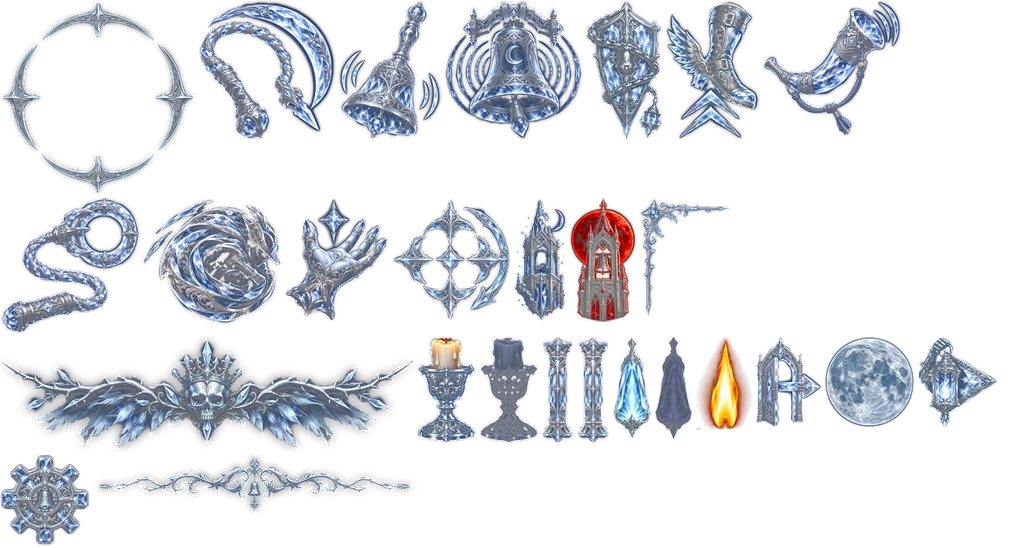
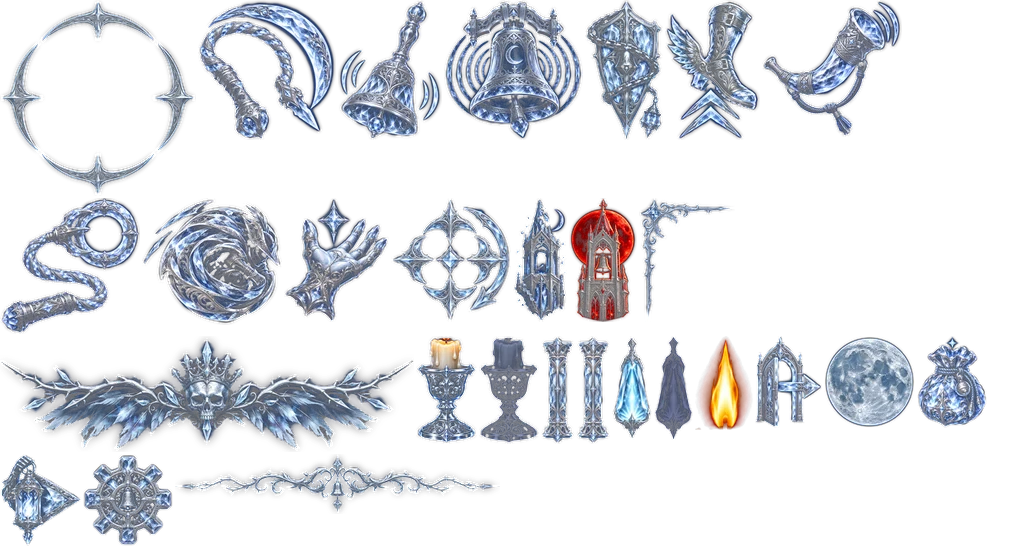
작업 중간 자동 저장 (22:42 UTC)
Claude-Session: https://claude.ai/code/session_01UBgmRFZQ92zRFpr8aw657S

Changed region(s): [[0.0, 0.8066, 0.5, 0.9927], [0.875, 0.6204, 0.9688, 0.7755]]

diff --git a/src/v2/world/eshville.js b/src/v2/world/eshville.js
@@ -15,24 +15,24 @@ export function eshville(era) {
   const fire = (chunk, id, x, y, z, w, h, lr = 420) => { add(chunk, { t: 'deco', mesh: 'fire', x, y, z, w, h, n: Math.max(4, Math.round(w / 18)), light: FIRE(lr, 1.9) }); anchors.push({ id, kind: 'fire', x, y, z, size: +(h / 70).toFixed(2), light: true }); };
 
   // ───────────── ground ─────────────
-  add('out', { t: 'floor', x: -60, z: 0, w: 1560, d: 300, mat: 'dirt', kit: { mat: 'cobworn', rag: 44, strips: [{ z0: 0, z1: 56, mat: 'soil' }, { z0: 232, z1: 300, mat: 'soil' }] } });
-  add('street', { t: 'floor', x: 1500, z: 0, w: 1800, d: 300, mat: 'cobble', kit: { rag: 30, strips: [{ z0: 104, z1: 196, mat: 'cobworn' }, { z0: 0, z1: 16, mat: 'flags' }] } },
+  add('out', { t: 'floor', x: -60, z: 0, w: 1560, d: 300, mat: 'dirt', kit: { mat: 'cobworn', cell: 44, rag: 44, strips: [{ z0: 0, z1: 56, mat: 'soil' }, { z0: 232, z1: 300, mat: 'soil' }] } });
+  add('street', { t: 'floor', x: 1500, z: 0, w: 1800, d: 300, mat: 'cobble', kit: { cell: 44, rag: 30, strips: [{ z0: 104, z1: 196, mat: 'cobworn' }, { z0: 0, z1: 16, mat: 'flags' }] } },
     { t: 'pave', x: 1500, z: 280, w: 1800, d: 20, h: 7, kerb: 'F' });
-  add('east', { t: 'floor', x: 3300, z: 0, w: 1400, d: 900, mat: 'cobble', kit: { mat: 'cobble2', rag: 38, strips: [{ x0: 470, x1: 730, z0: 320, z1: 580, mat: 'flags' }, { x0: 520, x1: 680, z0: 580, z1: 900, mat: 'flags' }, { x0: 0, x1: 470, z0: 104, z1: 196, mat: 'cobworn' }, { x0: 1180, x1: 1400, z0: 560, z1: 900, mat: 'cobworn' }] } });
+  add('east', { t: 'floor', x: 3300, z: 0, w: 1400, d: 900, mat: 'cobble', kit: { mat: 'cobble2', cell: 50, rag: 38, strips: [{ x0: 470, x1: 730, z0: 320, z1: 580, mat: 'flags' }, { x0: 520, x1: 680, z0: 580, z1: 900, mat: 'flags' }, { x0: 0, x1: 470, z0: 104, z1: 196, mat: 'cobworn' }, { x0: 1180, x1: 1400, z0: 560, z1: 900, mat: 'cobworn' }] } });
   add('east', { t: 'floor', x: 3660, z: 900, w: 480, d: 200, mat: 'stone', kit: { mat: 'flags', rag: 26, strips: [{ x0: 0, x1: 110, mat: 'cobble2' }, { x0: 370, x1: 480, mat: 'cobble2' }] } },
     { t: 'stairs', x: 3660, z: 1100, w: 480, d: 150, h: 84, dir: 'z+', steps: 7, mat: 'stone', kit: { cheeks: 'LR' } },
     { t: 'floor', x: 3460, z: 1250, w: 880, d: 400, y: 84, thick: 330, mat: 'stone', kit: { mat: 'flags', rag: 30, strips: [{ z0: 0, z1: 60, mat: 'cobble2' }, { x0: 0, x1: 150, z0: 60, z1: 400, mat: 'cobble2' }, { x0: 730, x1: 880, z0: 60, z1: 400, mat: 'cobble2' }] } },
-    { t: 'floor', x: 3300, z: 990, w: 316, d: 260, mat: 'dirt', walk: false, kit: { mat: 'soil', rag: 30, strips: [{ x0: 120, x1: 316, z0: 60, z1: 200, mat: 'moss' }] } },
-    { t: 'floor', x: 4184, z: 990, w: 256, d: 260, mat: 'dirt', walk: false, kit: { mat: 'soil', rag: 30, strips: [{ x0: 0, x1: 150, z0: 80, z1: 220, mat: 'moss' }] } });
+    { t: 'floor', x: 3300, z: 990, w: 316, d: 260, mat: 'dirt', walk: false, kit: { mat: 'soil', cell: 60 } },
+    { t: 'floor', x: 4184, z: 990, w: 256, d: 260, mat: 'dirt', walk: false, kit: { mat: 'soil', cell: 60 } });
   add('east', { t: 'floor', x: 4480, z: 900, w: 220, d: 600, mat: 'dirt', kit: { mat: 'cobworn', rag: 34, strips: [{ x0: 0, x1: 50, z0: 120, mat: 'soil' }, { x0: 170, x1: 220, z0: 120, mat: 'soil' }] } });
   add('out', { t: 'blocker', x: -60, z: -60, w: 4900, d: 60, y: -400, h: 1200 }, { t: 'blocker', x: 4480, z: 1500, w: 220, d: 40, y: -400, h: 1200 });
 
   // ───────────── boundary walls ─────────────
-  add('out', { t: 'wall', x: -160, z: -60, w: 100, d: 450, h: 280, mat: 'facade', kit: { style: 'rubble', lower: 'fieldstone', faces: 'R', gates: [{ side: 'R', u: 210, w: 130, h: 200 }], buttress: [{ side: 'R', u: 90, h: 220, d: 18 }, { side: 'R', u: 330, h: 220, d: 18 }], battlement: true } });
+  add('out', { t: 'wall', x: -160, z: -60, w: 100, d: 450, h: 280, mat: 'facade', kit: { style: 'rubble', lower: 'fieldstone', cell: 64, faces: 'R', gates: [{ side: 'R', u: 210, w: 130, h: 200 }], buttress: [{ side: 'R', u: 90, h: 220, d: 18 }, { side: 'R', u: 330, h: 220, d: 18 }], battlement: true } });
   add('east', { t: 'wall', x: 3200, z: 390, w: 100, d: 510, h: 300, mat: 'facade', kit: { style: 'stone', faces: 'R', quoins: true, courses: [156], windows: [130, 300, 440].flatMap((u, i) => [{ side: 'R', u, y: 70, w: 42, h: 66, lit: [0.7, 0, 0.5][i] * (now ? 0.6 : 1), shutters: i === 1 }, { side: 'R', u, y: 184, w: 40, h: 66, arch: 'round', lit: [0, 0.6, 0][i] }]), hang: [{ type: 'banner', side: 'R', u: 215, y: 66, len: 96, w: 36, c: past ? BLACK : BLUE }] } },
-    { t: 'roof', x: 3200, z: 390, w: 100, d: 510, y: 300, h: 50, kit: { gable: 'ashlar' } },
-    { t: 'wall', x: 4700, z: -60, w: 100, d: 1560, h: 330, mat: 'facade', kit: { style: 'rubble', lower: 'fieldstone', faces: 'L', battlement: true, buttress: [200, 520, 840, 1160, 1440].map((u) => ({ side: 'L', u, h: 250, d: 22, w: 40 })), hang: [{ type: 'banner', side: 'L', u: 1050, y: 110, len: 120, w: 44, c: past ? BLACK : RED }, { type: 'sconce', side: 'L', u: 700, y: 150 }] } });
-  add('east', { t: 'wall', x: 3200, z: 900, w: 100, d: 800, h: 260, mat: 'facade', kit: { style: 'rubble', lower: 'fieldstone', faces: 'R', battlement: true, buttress: [150, 420, 690].map((u) => ({ side: 'R', u, h: 200, d: 20 })) } },
+    { t: 'roof', x: 3200, z: 390, w: 100, d: 510, y: 300, h: 50, kit: { gable: 'ashlar', chimney: 'fieldstone' } },
+    { t: 'wall', x: 4700, z: -60, w: 100, d: 1560, h: 330, mat: 'facade', kit: { style: 'rubble', lower: 'fieldstone', cell: 70, faces: 'L', battlement: true, buttress: [200, 520, 840, 1160, 1440].map((u) => ({ side: 'L', u, h: 250, d: 22, w: 40 })), hang: [{ type: 'banner', side: 'L', u: 1050, y: 110, len: 120, w: 44, c: past ? BLACK : RED }, { type: 'sconce', side: 'L', u: 700, y: 150 }] } });
+  add('east', { t: 'wall', x: 3200, z: 900, w: 100, d: 800, h: 260, mat: 'facade', kit: { style: 'rubble', lower: 'fieldstone', cell: 70, faces: 'R', battlement: true, buttress: [150, 420, 690].map((u) => ({ side: 'R', u, h: 200, d: 20 })) } },
     { t: 'wall', x: 3616, z: 990, w: 44, d: 260, h: 56, collideH: 800, mat: 'stone', kit: { style: 'low', faces: 'FR', coping: true, rail: 'R', piers: 130 } },
     { t: 'wall', x: 4140, z: 990, w: 44, d: 260, h: 56, collideH: 800, mat: 'stone', kit: { style: 'low', faces: 'FL', coping: true, rail: 'L', piers: 130 } },
     { t: 'wall', x: 3460, z: 1250, w: 200, d: 30, y: 84, h: 44, collideH: 800, mat: 'stone', kit: { style: 'low', faces: 'F', coping: true, rail: 'F', piers: 100 } },
@@ -56,12 +56,12 @@ export function eshville(era) {
     house({ x: 3300, z: 900, w: 360, h: 300, style: 'timber', seed: 31, lit: now ? 0.3 : 0.7, faces: 'FR', sconce: true, kit: { jettySides: 'F' } }),
     house({ x: 4140, z: 900, w: 340, h: 320, style: 'stone', seed: 32, lit: now ? 0.25 : 0.6, faces: 'FLR', banner: past ? BLACK : RED }));
   // ───────────── church + bell tower ─────────────
-  const NAVE = (x, seed) => ({ t: 'wall', x, z: 1650, w: 300, d: 120, y: 84, h: 400, mat: 'facade', kit: { style: 'stone', faces: 'F', plinth: 34, courses: [330], quoins: true, tint: [0.98, 0.98, 1.04],
+  const NAVE = (x, seed) => ({ t: 'wall', x, z: 1650, w: 300, d: 120, y: 84, h: 400, mat: 'facade', kit: { style: 'stone', cell: 56, faces: 'F', plinth: 34, courses: [330], quoins: true, tint: [0.98, 0.98, 1.04],
     windows: [{ u: 90, y: 100, w: 54, h: 200, arch: 'point', lit: seed ? 0.8 : 0.6, rows: 4 }, { u: 210, y: 100, w: 54, h: 200, arch: 'point', lit: seed ? 0.55 : 0.85, rows: 4 }],
     buttress: [{ u: 16, h: 300, d: 24, w: 34 }, { u: 150, h: 300, d: 24, w: 34 }, { u: 284, h: 300, d: 24, w: 34 }], hang: past ? [{ type: 'banner', u: 150, y: 150, len: 120, w: 40, c: BLACK }] : [] } });
   add('east', NAVE(3460, 0), NAVE(4040, 1),
     { t: 'roof', x: 3460, z: 1650, w: 300, d: 120, y: 484, h: 96, kit: { gable: 'ashlar' } }, { t: 'roof', x: 4040, z: 1650, w: 300, d: 120, y: 484, h: 96, kit: { gable: 'ashlar' } },
-    { t: 'wall', x: 3760, z: 1622, w: 280, d: 148, y: 84, h: 700, mat: 'facade', kit: { style: 'stone', faces: 'FLR', plinth: 40, courses: [250, 470, 640], quoins: true, battlement: true, tint: [1.0, 1.0, 1.05],
+    { t: 'wall', x: 3760, z: 1622, w: 280, d: 148, y: 84, h: 700, mat: 'facade', kit: { style: 'stone', cell: 60, faces: 'FLR', plinth: 40, courses: [250, 470, 640], quoins: true, battlement: true, tint: [1.0, 1.0, 1.05],
       doors: [{ u: 140, w: 96, h: 160, arch: 'point' }],
       windows: [{ u: 140, y: 290, w: 64, h: 130, arch: 'point', lit: 0.75, rows: 3, cols: 2 }, { u: 86, y: 510, w: 46, h: 100, arch: 'point', rows: 1, cols: 1 }, { u: 194, y: 510, w: 46, h: 100, arch: 'point', rows: 1, cols: 1 }],
       buttress: [{ u: 18, h: 420, d: 26, w: 36 }, { u: 262, h: 420, d: 26, w: 36 }], hang: [{ type: 'sconce', u: 62, y: 150 }, { type: 'sconce', u: 218, y: 150 }] } },
@@ -88,7 +88,7 @@ export function eshville(era) {
     { t: 'deco', mesh: 'deadtree', x: 3420, z: 1130, h: 280 }, { t: 'deco', mesh: 'deadtree', x: 4330, z: 1160, h: 250, flip: true },
     ...[[3380, 1060, 'point', 92], [3470, 1090, 'round', 80], [3560, 1050, 'cross', 96], [3500, 1190, 'obelisk', 120], [3380, 1200, 'broken', 80], [4240, 1070, 'round', 84], [4390, 1060, 'point', 90], [4250, 1200, 'ledger', 80], [4400, 1190, 'cross', 100]].map(([x, z, kind, h]) => ({ t: 'deco', mesh: 'grave', kind, x, z, h })),
     { t: 'deco', mesh: 'cross', x: 4320, z: 1090, h: 170 },
-    { t: 'deco', mesh: 'cemgate', x: 4590, z: 1010, w: 164, h: 200, open: 0.2 }, { t: 'blocker', x: 4472, z: 992, w: 38, d: 36 }, { t: 'blocker', x: 4670, z: 992, w: 38, d: 36 },
+    { t: 'deco', mesh: 'cemgate', x: 4590, z: 1010, w: 164, h: 200, open: 1.25 }, { t: 'blocker', x: 4472, z: 992, w: 38, d: 36 }, { t: 'blocker', x: 4670, z: 992, w: 38, d: 36 },
     { t: 'prop', mesh: 'lanternpost', x: 4510, z: 1180, h: 180, solid: 9, solidZ: 9, light: { r: 280, i: 1.3, y: 120, c: [0.75, 0.85, 1] }, c: [0.75, 0.85, 1], flip: true });
 
   // ───────────── era dressing ─────────────
@@ -109,8 +109,8 @@ export function eshville(era) {
       { t: 'prop', mesh: 'cart', x: 820, z: 252, h: 104, solid: 70, solidZ: 22 }, { t: 'prop', mesh: 'sacks', x: 1010, z: 264, h: 36, solid: 26, solidZ: 12 }, { t: 'prop', mesh: 'barrel', x: 1070, z: 262, h: 78, solid: 24 },
       { t: 'prop', mesh: 'plaguepost', x: 1290, z: 258, h: 210, solid: 10, solidZ: 10 });
     add('street', { t: 'prop', mesh: 'stall', x: 2240, z: 258, h: 130, w: 140, solid: 72, solidZ: 23 }, { t: 'prop', mesh: 'harvest', x: 1960, z: 266, h: 46, solid: 30, solidZ: 12 }, { t: 'prop', mesh: 'hay', x: 3060, z: 262, h: 62, solid: 34, solidZ: 16 });
-    add('east', { t: 'prop', mesh: 'plaguepost', x: 4560, z: 200, h: 220, solid: 10, solidZ: 10 }, { t: 'prop', mesh: 'stall', x: 3560, z: 836, h: 130, w: 140, solid: 72, solidZ: 23 }, { t: 'prop', mesh: 'stall', x: 4090, z: 836, h: 130, w: 140, solid: 72, solidZ: 23 },
-      { t: 'prop', mesh: 'harvest', x: 4340, z: 846, h: 50, solid: 30, solidZ: 12 }, { t: 'prop', mesh: 'hay', x: 3700, z: 850, h: 62, solid: 34, solidZ: 16 }, { t: 'deco', mesh: 'candles', x: 3900, z: 400, light: { r: 180, i: 1.0, y: 20 } });
+    add('east', { t: 'prop', mesh: 'plaguepost', x: 4560, z: 200, h: 220, solid: 10, solidZ: 10 }, { t: 'prop', mesh: 'stall', x: 3500, z: 836, h: 130, w: 140, solid: 72, solidZ: 23 }, { t: 'prop', mesh: 'stall', x: 4300, z: 836, h: 130, w: 140, solid: 72, solidZ: 23 },
+      { t: 'prop', mesh: 'harvest', x: 4180, z: 850, h: 50, solid: 30, solidZ: 12 }, { t: 'prop', mesh: 'hay', x: 3624, z: 850, h: 62, solid: 34, solidZ: 16 }, { t: 'deco', mesh: 'candles', x: 3900, z: 400, light: { r: 180, i: 1.0, y: 20 } });
     add('east', { t: 'deco', mesh: 'candles', x: 3760, y: 84, z: 1600, n: 7, light: { r: 200, i: 1.1, y: 20 } }, { t: 'deco', mesh: 'candles', x: 4040, y: 84, z: 1600, n: 7, light: { r: 200, i: 1.1, y: 20 } });
     for (const [x, z] of [[900, 150], [2600, 150], [3900, 600]]) anchors.push({ id: 'mist_' + x, kind: 'mist', x, y: 0, z, size: 2 });
   }
@@ -131,7 +131,7 @@ export function eshville(era) {
   } else {
     for (const [x, z, g] of [[900, 150, 'out_p'], [980, 90, 'out_p'], [1070, 190, 'out_p'], [1800, 160, 'st_p'], [1890, 100, 'st_p'], [2620, 150, 'st_p'], [2700, 216, 'st_p'], [2790, 120, 'st_p'], [3760, 560, 'sq_p'], [4050, 330, 'sq_p'], [4150, 560, 'sq_p']]) enemies.push({ kind: 'plague_corpse', x, z, group: g, yard: g === 'sq_p' });
     actors.push({ id: 'lotte', model: 'lotte', x: 3950, z: 1560, face: S, talk: 'lotte.fell', pose: 'idle' }, { id: 'edmund', model: 'edmund', x: 1800, z: 262, face: S, talk: 'edmund.tavern', pose: 'idle', when: 'street_clear' },
-      { id: 'hadwin1', model: 'hadwin1', x: 2640, z: 262, face: S, talk: 'hadwin1.smithy', pose: 'work' }, { id: 'stallkeeper', model: 'villager_f', x: 3560, z: 772, face: S, talk: 'villager.stall', pose: 'cower', tint: [1.05, 0.95, 0.85] }, { id: 'farmer', model: 'villager_m', x: 4340, z: 800, face: W, talk: 'villager.plague', pose: 'idle', tint: [1.05, 0.95, 0.85] });
+      { id: 'hadwin1', model: 'hadwin1', x: 2640, z: 262, face: S, talk: 'hadwin1.smithy', pose: 'work' }, { id: 'stallkeeper', model: 'villager_f', x: 3500, z: 772, face: S, talk: 'villager.stall', pose: 'cower', tint: [1.05, 0.95, 0.85] }, { id: 'farmer', model: 'villager_m', x: 4300, z: 772, face: S, talk: 'villager.plague', pose: 'idle', tint: [1.05, 0.95, 0.85] });
     interact.push({ id: 'inn_door', kind: 'door', x: 1800, z: 284, r: 54, label: '작은 주막', event: 'door.tavern', locked: 'not_built' }, { id: 'smithy_door', kind: 'shop', x: 2580, z: 284, r: 54, label: '대장간', event: 'shop.smithy1', locked: 'not_built' });
     triggers.push({ id: 'past_street', ...rect(1500, 0, 60, 300), event: 'past.street', wake: 'st_p' }, { id: 'square_enter', ...rect(3300, 0, 60, 300), event: 'square.enter', wake: 'sq_p' }, { id: 'church_steps', ...rect(3660, 1100, 480, 60), event: 'church.arrive' });
   }
@@ -163,7 +163,7 @@ export function eshville(era) {
     },
     exits: [
       { id: 'to_graveyard', ...rect(4510, 1230, 160, 70), to: 'graveyard_' + era, spawn: 'from_eshville', label: '안개의 묘지', locked: now ? 'key_graveyard' : 'past_gate' },
-      { id: 'to_belltower', ...rect(3852, 1594, 96, 28), to: 'belltower_' + era, spawn: 'bottom', label: '종탑', locked: 'story:belltower' },
+      { id: 'to_belltower', ...rect(3852, 1578, 96, 44), to: 'belltower_' + era, spawn: 'bottom', label: '종탑', locked: 'story:belltower' },
       { id: 'to_west', ...rect(-60, 110, 50, 130), to: 'stable_' + era, spawn: 'from_eshville', label: '성문 밖', locked: 'not_built' },
     ],
     actors, enemies, triggers, interact, anchors,
@@ -183,7 +183,7 @@ function decals(now) {
     for (const [x, z, rx, rz] of [[440, 236, 130, 50], [200, 262, 120, 36], [1290, 250, 120, 44], [1300, 276, 150, 26], [4560, 190, 120, 50]]) put('scorch', x, z, rx, rz);
     for (const [x, z, rx, rz] of [[330, 150, 90, 50], [760, 190, 80, 40], [1180, 70, 90, 44], [4440, 300, 90, 50]]) put('ash', x, z, rx, rz);
   } else {
-    for (const [x, z, rx, rz] of [[430, 240, 90, 36], [2240, 226, 100, 30], [3060, 240, 80, 30], [3560, 790, 110, 36], [4090, 790, 110, 36]]) put('straw', x, z, rx, rz);
+    for (const [x, z, rx, rz] of [[430, 240, 90, 36], [2240, 226, 100, 30], [3060, 240, 80, 30], [3500, 790, 110, 36], [4300, 790, 110, 36]]) put('straw', x, z, rx, rz);
     for (const [x, z, rx, rz] of [[20, 230, 80, 40], [1500, 60, 80, 36], [3400, 700, 70, 60], [4590, 1100, 80, 70]]) put('leaves', x, z, rx, rz);
   }
   return d;

diff --git a/src/v2/ui/hud.js b/src/v2/ui/hud.js
@@ -29,6 +29,8 @@ export function createCanvasHud(game, opts = {}) {
   const wprompts = []; for (let i = 0; i < PROMPT_SLOTS; i++) wprompts.push({ c: null, w: 0, h: 0, key: '' });
   const banner = { on: false, kind: '', t: 0, dur: 2.8, title: '', sub: '' };
   const icons = new Map();   // toast icon URL -> Image
+  const taps = { n: 0, rect: new Float32Array(8 * 4), ref: [null, null, null, null, null, null, null, null] }, rowX = new Float32Array(8), rowW = new Float32Array(8);   // prompt chips that can be tapped (touch)
+  const tapAdd = (p, x, y, w, h) => { if (taps.n >= 8) return; const i = taps.n++ * 4; taps.rect[i] = x; taps.rect[i + 1] = y; taps.rect[i + 2] = w; taps.rect[i + 3] = h; taps.ref[taps.n - 1] = p; };
 
   const px = (v) => v * L.hs;                                           // HUD graphics size (logical px)
   const tsz = (base, min = L.tmin) => Math.max(base * L.hs * L.tk, min / L.css);   // text size with the setting and the CSS-px floor
@@ -111,9 +113,10 @@ export function createCanvasHud(game, opts = {}) {
     f.fillStyle = g; f.fillRect(0, barH, bw, barH);
     return bossP;
   }
-  function bakeSection(label) {
-    if (!stale(secP, label)) return secP;
-    const t = bakeText(label, L.s, { size: tsz(12.5), weight: 600, fill: COL.silverDim, lw: 2.6, stroke: 'rgba(6,6,16,0.8)' }, secP.t);
+  function bakeSection(label, left) {
+    if (!stale(secP, label, left)) return secP;
+    const str = left > 0 ? label + ' · ' + (opts.labels?.left ?? '남은 적') + ' ' + left : label;
+    const t = bakeText(str, L.s, { size: tsz(12.5), weight: 600, fill: left > 0 ? '#ffd9de' : COL.silverDim, lw: 2.6, stroke: 'rgba(6,6,16,0.8)' }, secP.t);
     secP.t = t; secP.c = t.c; secP.w = t.w; secP.h = t.h;
     return secP;
   }
@@ -144,7 +147,7 @@ export function createCanvasHud(game, opts = {}) {
     glassPanel(c, 3, 3, w, h, { cut: px(7), dense: 0.8, accent: o.kind === 'warn' ? 'ruby' : o.kind === 'item' ? 'gold' : null });
     const ix = 3 + px(9) + ih / 2, iy = 3 + h / 2;
     if (o.img && o.img.complete && o.img.naturalWidth) c.drawImage(o.img, ix - ih / 2, iy - ih / 2, ih, ih);
-    else sprite(c, typeof o.icon === 'string' && !o.img ? o.icon : 'interact', ix, iy, ih, ih);
+    else sprite(c, typeof o.icon === 'string' && !o.img ? o.icon : 'pouch', ix, iy, ih, ih);
     c.font = `600 ${ts}px ${FONTS.body}`; c.textBaseline = 'middle'; c.textAlign = 'left';
     c.lineWidth = 3; c.strokeStyle = 'rgba(4,4,12,0.85)'; c.lineJoin = 'round'; c.strokeText(o.text, ix + ih / 2 + px(8), iy + 1);
     c.fillStyle = o.kind === 'item' ? '#fff2d2' : '#ffffff'; c.fillText(o.text, ix + ih / 2 + px(8), iy + 1);
@@ -156,7 +159,7 @@ export function createCanvasHud(game, opts = {}) {
     const h = px(28), w = promptW(p, ts);
     glassPanel(c, x, y, w, h, { cut: px(6), dense: 0.45 });
     const ix = x + px(8) + px(11), iy = y + h / 2;
-    if (mode === 'touch') sprite(c, PROMPT_ICON[p.action] ?? 'interact', ix, iy, px(23), px(23));
+    if (mode === 'touch') sprite(c, p.icon ?? PROMPT_ICON[p.action] ?? 'interact', ix, iy, px(23), px(23));
     else {
       const name = keyName(p.action, mode), ks = Math.max(9, ts * 0.86), kw = Math.max(px(20), measure(name, ks, 800) + 8);
       chamfer(c, ix - kw / 2, iy - px(10), kw, px(20), px(4)); c.fillStyle = 'rgba(236,241,255,0.92)'; c.fill();
@@ -186,7 +189,7 @@ export function createCanvasHud(game, opts = {}) {
     const ts = tsz(13, L.tmin + 1), gap = px(8); let w = 6;
     for (let i = 0; i < list.length; i++) if (list[i].x == null) w += promptW(list[i], ts) + gap;
     const c = ctxOf(promptRow, w, px(28) + 10); let x = 3;
-    for (let i = 0; i < list.length; i++) if (list[i].x == null) x += drawPrompt(c, list[i], x, 4, ts, mode) + gap;
+    for (let i = 0, k = 0; i < list.length; i++) if (list[i].x == null) { const cw = drawPrompt(c, list[i], x, 4, ts, mode); if (k < 8) { rowX[k] = x; rowW[k] = cw; k++; } x += cw + gap; }
   }
   function bakeWorldPrompt(slot, p, mode) {
     if (!stale(slot, mode, p.action, p.label)) return;
@@ -219,7 +222,7 @@ export function createCanvasHud(game, opts = {}) {
   function addToast(text, o = {}) {
     let slot = toasts.find((q) => !q.on);
     if (!slot) { slot = toasts[0]; for (const q of toasts) if (q.t > slot.t) slot = q; }
-    slot.on = true; slot.t = 0; slot.dur = o.time ?? 2.6; slot.text = String(text); slot.kind = o.kind ?? 'info'; slot.icon = o.icon ?? (slot.kind === 'item' ? 'interact' : 'bell'); slot.img = null; slot.dirty = true; slot.y = -1;
+    slot.on = true; slot.t = 0; slot.dur = o.time ?? 2.6; slot.text = String(text); slot.kind = o.kind ?? 'info'; slot.icon = o.icon ?? (slot.kind === 'item' ? 'pouch' : slot.kind === 'warn' ? 'candle_dead' : 'bell'); slot.img = null; slot.dirty = true; slot.y = -1;
     if (typeof o.icon === 'string' && /[./]/.test(o.icon)) {   // an image URL (item art): bake again when it arrives
       let im = icons.get(o.icon);
       if (!im) { im = new Image(); im.src = o.icon; icons.set(o.icon, im); }
@@ -280,6 +283,7 @@ export function createCanvasHud(game, opts = {}) {
       return;
     }
     const mode = opts.forceMode ?? input?.mode ?? 'touch';
+    taps.n = 0;
     // 1) world-anchored: enemy bars, lock ring, numbers, callouts, prompts
     const E = s.enemies; let target = null;
     if (E) for (let i = 0; i < E.length; i++) {
@@ -318,7 +322,7 @@ export function createCanvasHud(game, opts = {}) {
     }
     ctx.globalAlpha = 1;
     const PR = s.prompts;
-    if (PR) { let j = 0; for (let i = 0; i < PR.length && j < PROMPT_SLOTS; i++) { const p = PR[i]; if (p.x == null) continue; const slot = wprompts[j++]; bakeWorldPrompt(slot, p, mode); s.project(p.x, p.y ?? 0, p.z ?? 0, P); if (P.w > 1) blit(ctx, slot, clamp(P.x - slot.w / 2, sf.l + 4, vw - sf.r - slot.w - 4), P.y - slot.h - 8 + Math.sin(T.t * 3) * 2); } }
+    if (PR) { let j = 0; for (let i = 0; i < PR.length && j < PROMPT_SLOTS; i++) { const p = PR[i]; if (p.x == null) continue; const slot = wprompts[j++]; bakeWorldPrompt(slot, p, mode); s.project(p.x, p.y ?? 0, p.z ?? 0, P); if (P.w > 1) { const wx = clamp(P.x - slot.w / 2, sf.l + 4, vw - sf.r - slot.w - 4), wy = P.y - slot.h - 8; blit(ctx, slot, wx, wy + Math.sin(T.t * 3) * 2); tapAdd(p, wx, wy, slot.w, slot.h); } } }
 
     // the banner goes under the status block and the toasts (its soft dark band spans the screen)
     if (banner.on) {
@@ -353,7 +357,7 @@ export function createCanvasHud(game, opts = {}) {
     }
     let rx = cx0 + cells * cstep + px(4);
     if (s.moon) { const mp = bakeMoon(s.moon.phase ?? 0); blit(ctx, mp, rx, gy - cellH / 2 - mp.h / 2); rx += mp.w + px(4); }
-    if (s.section?.label) { const sp = bakeSection(s.section.label); blit(ctx, sp, rx, gy - cellH / 2 - sp.h / 2); }
+    if (s.section?.label) { const sp = bakeSection(s.section.label, s.left ?? (s.section.id === 'yard' && !s.done ? (s.yardLeft | 0) : 0)); blit(ctx, sp, rx, gy - cellH / 2 - sp.h / 2); }
 
     // 3) toasts under the status block
     let ty = y0 + bd.h + px(52);
@@ -376,7 +380,11 @@ export function createCanvasHud(game, opts = {}) {
     }
     // 5) bottom centre: button prompts
     bakePrompts(s, mode);
-    if (promptRow.n > 0 && promptRow.c) blit(ctx, promptRow, vw / 2 - promptRow.w / 2, vh - sf.b - promptRow.h - px(mode === 'touch' ? 8 : 14));
+    if (promptRow.n > 0 && promptRow.c) {
+      const bx = vw / 2 - promptRow.w / 2, by = vh - sf.b - promptRow.h - px(mode === 'touch' ? 8 : 14);
+      blit(ctx, promptRow, bx, by);
+      if (PR) for (let i = 0, k = 0; i < PR.length && k < 8; i++) if (PR[i].x == null) { tapAdd(PR[i], bx + rowX[k], by + 4, rowW[k], px(28)); k++; }
+    }
     if (s.debug && s.debugLine) {
       if ((T.dbgN = (T.dbgN ?? 0) - 1) <= 0) { T.dbgN = 30; const t = bakeText(String(s.debugLine()), L.s, { size: 11, weight: 500, fill: 'rgba(225,228,245,0.7)', lw: 2 }, dbgP.t); dbgP.t = t; dbgP.c = t.c; dbgP.w = t.w; dbgP.h = t.h; }
       blit(ctx, dbgP, vw / 2 - dbgP.w / 2, vh - sf.b - dbgP.h + 2);
@@ -412,6 +420,15 @@ export function createCanvasHud(game, opts = {}) {
     draw,
     number(x, y, z, str, o) { addCallout(x, y, z, String(str), 'num', !!o?.big); },
     resize() { L.epoch++; L.s = 0; },
+    /** touch: the prompt chip under a logical point (hit area grown to 44 CSS px), or null */
+    promptAt(x, y) {
+      for (let k = 0; k < taps.n; k++) {
+        const i = k * 4, h = taps.rect[i + 3], g = Math.max(0, (44 / L.css - h) / 2);
+        if (x >= taps.rect[i] - 6 && x <= taps.rect[i] + taps.rect[i + 2] + 6 && y >= taps.rect[i + 1] - g && y <= taps.rect[i + 1] + h + g) return taps.ref[k];
+      }
+      return null;
+    },
+    promptRects() { const o = []; for (let k = 0; k < taps.n; k++) o.push({ action: taps.ref[k]?.action, x: taps.rect[k * 4], y: taps.rect[k * 4 + 1], w: taps.rect[k * 4 + 2], h: taps.rect[k * 4 + 3] }); return o; },
     layout: L, px, tsz,
     info() { return { scale: L.s, hs: L.hs, textSize: L.textSize, epoch: L.epoch, banner: banner.on ? banner.kind : null, toasts: toasts.filter((q) => q.on).length, lit: T.lit, max: T.max }; },
     release() { for (const p of [badge.now, badge.past, ...Object.values(shelves), moonP, bossP, bossFill, bannerP, bandP, promptRow, msgP, msg2P, dbgP, ...nums, ...calls, ...toasts, ...wprompts]) if (p.c) { p.c.width = 1; p.c.height = 1; p.c = null; } icons.clear(); },

diff --git a/src/v2/ui/index.js b/src/v2/ui/index.js
@@ -57,7 +57,7 @@ export function createHud(game, opts = {}) {
       return { drawMs: { avg: n ? sum / n : 0, p50: n ? a[n >> 1] : 0, p95: n ? a[Math.min(n - 1, Math.floor(n * 0.95))] : 0, max: n ? a[n - 1] : 0, n }, updMs: perf.updN ? perf.upd / perf.updN : 0, padRepaints: pad?.metrics().repaints ?? 0, atlas: atlas.ready, ...canvas.info() };
     },
     /** QA: geometry of everything that can be measured (CSS px for the pad, logical px for the canvas pieces). */
-    metrics() { return { pad: pad?.metrics() ?? null, dialog: dialog.info(), pause: pause.info(), hud: canvas.info(), modal: hud.modal }; },
+    metrics() { return { pad: pad?.metrics() ?? null, dialog: dialog.info(), pause: pause.info(), hud: canvas.info(), prompts: canvas.promptRects(), modal: hud.modal }; },
     release() {
       if (released) return; released = true;
       window.removeEventListener('pointerdown', onDown, true);
@@ -66,15 +66,32 @@ export function createHud(game, opts = {}) {
   };
   hud.dispose = hud.release;
 
-  const pad = opts.pad === false ? null : createPad(game, { ...opts, input, isModal: () => pause.open || dialog.open, onPause: () => { if (opts.onPause) opts.onPause(); else hud.openPause(); } });
+  const pad = opts.pad === false ? null : createPad(game, { ...opts, input, isModal: () => pause.open || dialog.open, claims: (e) => !!promptHit(e), onPause: () => { if (opts.onPause) opts.onPause(); else hud.openPause(); } });
 
-  // taps while a dialogue or the pause menu is open: taken here (the canvas under it gets nothing)
+  // taps while a dialogue or the pause menu is open are taken here (the canvas under it gets nothing);
+  // in play, a tap on a prompt chip (touch mode) presses that prompt's action for one step
+  const LP = { x: 0, y: 0 };
+  function toLogical(e) {
+    const r = game.canvasRect ?? { x: 0, y: 0, w: window.innerWidth, h: window.innerHeight };
+    LP.x = ((e.clientX - r.x) / (r.w || 1)) * last.viewW; LP.y = ((e.clientY - r.y) / (r.h || 1)) * last.viewH;
+    return LP;
+  }
+  function promptHit(e) {
+    if (!last || hud.modal || e.pointerType === 'mouse' || (opts.forceMode ?? input?.mode ?? 'touch') !== 'touch') return null;
+    const q = toLogical(e); return canvas.promptAt(q.x, q.y);
+  }
   function onDown(e) {
-    const m = hud.modal; if (!m || !last) return;
-    const r = game.canvasRect ?? (game.canvas?.getBoundingClientRect ? (() => { const b = game.canvas.getBoundingClientRect(); return { x: b.left, y: b.top, w: b.width, h: b.height }; })() : { x: 0, y: 0, w: window.innerWidth, h: window.innerHeight });
-    const x = ((e.clientX - r.x) / (r.w || 1)) * last.viewW, y = ((e.clientY - r.y) / (r.h || 1)) * last.viewH;
+    if (!last) return;
+    const m = hud.modal;
+    if (!m) {
+      const p = promptHit(e); if (!p) return;
+      e.stopPropagation();
+      try { if (p.onTap) p.onTap(p); else input.touch.tap(p.action); } catch (err) { console.error('[v2ui] prompt tap', err); }
+      return;
+    }
+    const q = toLogical(e);
     e.stopPropagation();
-    if (m === 'pause') pause.tap(x, y); else dialog.tap(x, y);
+    if (m === 'pause') pause.tap(q.x, q.y); else dialog.tap(q.x, q.y);
   }
   window.addEventListener('pointerdown', onDown, true);
   return hud;

diff --git a/src/v2/world/graveyard.js b/src/v2/world/graveyard.js
@@ -16,10 +16,10 @@ export function graveyard(era = 'now') {
     { t: 'wall', x: 1100, z: -60, w: 100, d: 960, h: 240, mat: 'facade', kit: { style: 'rubble', lower: 'fieldstone', faces: 'L', battlement: true, buttress: [160, 460, 760].map((u) => ({ side: 'L', u, h: 190, d: 20 })) } },
     { t: 'wall', x: 446, z: 130, w: 44, d: 770, h: 56, collideH: 800, mat: 'stone', kit: { style: 'low', faces: 'FR', coping: true, rail: 'R', piers: 154 } },
     { t: 'wall', x: 710, z: 130, w: 44, d: 770, h: 56, collideH: 800, mat: 'stone', kit: { style: 'low', faces: 'FL', coping: true, rail: 'L', piers: 154 } },
-    { t: 'deco', mesh: 'cemgate', x: 600, z: 96, w: 164, h: 200, open: 0.75 }, { t: 'blocker', x: 446, z: 78, w: 74, d: 52 }, { t: 'blocker', x: 680, z: 78, w: 74, d: 52 });
+    { t: 'wall', x: 446, z: 0, w: 44, d: 130, h: 56, collideH: 800, mat: 'stone', kit: { style: 'low', faces: 'FR', coping: true, rail: 'R' } }, { t: 'wall', x: 710, z: 0, w: 44, d: 130, h: 56, collideH: 800, mat: 'stone', kit: { style: 'low', faces: 'FL', coping: true, rail: 'L' } });   // (the village-side gate stands in eshville; a gate here would sit between the camera and the arriving hero)
   add('field', { t: 'wall', x: 100, z: 900, w: 390, d: 60, h: 190, mat: 'facade', kit: { style: 'rubble', lower: 'fieldstone', faces: 'F', coping: true, cornice: false, rail: 'F', buttress: [{ u: 120, h: 150, d: 18 }, { u: 300, h: 150, d: 18 }] } },
     { t: 'wall', x: 710, z: 900, w: 390, d: 60, h: 190, mat: 'facade', kit: { style: 'rubble', lower: 'fieldstone', faces: 'F', coping: true, cornice: false, rail: 'F', buttress: [{ u: 90, h: 150, d: 18 }, { u: 270, h: 150, d: 18 }] } },
-    { t: 'deco', mesh: 'cemgate', x: 600, z: 930, w: 164, h: 210, open: 0.5 }, { t: 'blocker', x: 490, z: 912, w: 30, d: 36 }, { t: 'blocker', x: 680, z: 912, w: 30, d: 36 },
+    { t: 'deco', mesh: 'cemgate', x: 600, z: 930, w: 164, h: 210, open: 1.25 }, { t: 'blocker', x: 490, z: 912, w: 30, d: 36 }, { t: 'blocker', x: 680, z: 912, w: 30, d: 36 },
     { t: 'wall', x: 0, z: 900, w: 100, d: 1290, h: 250, mat: 'facade', kit: { style: 'rubble', lower: 'fieldstone', faces: 'R', battlement: true, buttress: [200, 520, 840, 1160].map((u) => ({ side: 'R', u, h: 200, d: 20 })) } },
     { t: 'wall', x: 1100, z: 900, w: 100, d: 1290, h: 250, mat: 'facade', kit: { style: 'rubble', lower: 'fieldstone', faces: 'L', battlement: true, buttress: [130, 450, 770, 1090].map((u) => ({ side: 'L', u, h: 200, d: 20 })) } },
     { t: 'wall', x: 100, z: 2100, w: 1000, d: 90, h: 280, mat: 'facade', kit: { style: 'rubble', lower: 'fieldstone', faces: 'F', battlement: true, buttress: [{ u: 140, h: 220, d: 22 }, { u: 860, h: 220, d: 22 }] } });

diff --git a/src/v2/env/kit.js b/src/v2/env/kit.js
@@ -148,9 +148,10 @@ export function dressWall(G, P, boxes) {
     const hole = (s) => ({ u0: s.u - s.w / 2, u1: s.u + s.w / 2, y0: s.y, y1: s.y + s.h });
     const dh = doors.map((s) => ({ u0: s.u - s.w / 2, u1: s.u + s.w / 2, y0: base, y1: base + (s.rise ?? 0) + s.h }));
     const lo = wins.filter((s) => !yJ || s.y < yJ), hi = wins.filter((s) => yJ && s.y >= yJ);
-    wallGrid(G, F, lower, 0, len, y0, yJ ?? y1, 0, [...lo.map(hole), ...dh]);
+    const go = K.cell ? { cell: K.cell } : {};   // 큰 벽은 빛 굽는 격자를 성기게 (삼각형 절약)
+    wallGrid(G, F, lower, 0, len, y0, yJ ?? y1, 0, [...lo.map(hole), ...dh], go);
     if (yJ) {
-      wallGrid(G, F, upper, 0, len, yJ, y1, jet, hi.map(hole));
+      wallGrid(G, F, upper, 0, len, yJ, y1, jet, hi.map(hole), go);
       if (jet) {   // 내민 위층: 옆 마구리 + 장선 끝
         F.box(G, upper, 0, len, yJ, y1, 0, jet, { faces: 'LR' });
         for (let u = 10; u < len - 4; u += 34) F.box(G, 'timber', u - 4, u + 4, yJ - 10, yJ, 0, jet + 3, { faces: 'FLR', k: 0.8, vary: 0 });
@@ -256,9 +257,9 @@ export function dressRoof(G, P) {
   const yAt = (z) => ye + (z - z0) * hh / dz;
   for (const c of K.chimneys ?? []) {   // 굴뚝: 몸통 + 갓돌 + 연통
     const cx = P.x + c.u, cz = z0 + dz * (c.t ?? 0.7), w = (c.w ?? 28) / 2, top = y + h + (c.h ?? 34);
-    G.box('rubble', cx - w, yAt(cz - w) - 2, cz - w, cx + w, top, cz + w, { faces: 'FLR', tint: [0.95, 0.8, 0.78], vary: 0.2 });
+    G.box(K.chimney ?? 'rubble', cx - w, yAt(cz - w) - 2, cz - w, cx + w, top, cz + w, { faces: 'FLR', tint: [0.95, 0.8, 0.78], vary: 0.2 });
     G.box('trimstone', cx - w - 3, top, cz - w - 3, cx + w + 3, top + 6, cz + w + 3, { faces: 'FLRT', vary: 0 });
-    for (const dx of w > 12 ? [-w * 0.45, w * 0.45] : [0]) G.lathe('rubble', cx + dx, cz, [[5, top + 6], [4.2, top + 20], [5, top + 21]], 6, { tint: [0.9, 0.62, 0.5], cap: 'stone', capK: 0.2, vary: 0 });
+    for (const dx of w > 12 ? [-w * 0.45, w * 0.45] : [0]) G.lathe(K.chimney ?? 'rubble', cx + dx, cz, [[5, top + 6], [4.2, top + 20], [5, top + 21]], 6, { tint: [0.9, 0.62, 0.5], cap: 'stone', capK: 0.2, vary: 0 });
   }
   for (const d of K.dormers ?? []) {   // 지붕창: 앞벽 + 작은 맞배 + 볼
     const w = (d.w ?? 46) / 2, cx = P.x + d.u, zf = z0 + dz * (d.t ?? 0.3), yb = yAt(zf), wh = d.h ?? 30, gh = w * 0.75, yE = yb + wh, yR = yE + gh;

diff --git a/src/v2/ui/pad.js b/src/v2/ui/pad.js
@@ -59,7 +59,7 @@ export function createPad(game, opts = {}) {
   const B = BUTTONS.map((def) => {
     const cv = document.createElement('canvas');
     cv.className = 'v2b'; cv.dataset.id = def.id;
-    cv.style.cssText = 'position:absolute;left:0;top:0;will-change:transform;transform-origin:50% 42%;';
+    cv.style.cssText = 'position:absolute;left:0;top:0;will-change:transform;transform-origin:50% 42%;transition:transform 70ms ease-out;';
     root.appendChild(cv);
     return { id: def.id, def, sent: '', cv, ctx: cv.getContext('2d'), cx: 0, cy: 0, d: 0, pad: 0, cw: 0, ch: 0, lw: 0, down: false, ptr: -1, t0: 0, cd: 0, charge: 0, disabled: false, icon: def.icon, label: def.label, dirty: true };
   });
@@ -110,6 +110,8 @@ export function createPad(game, opts = {}) {
   function place(b) { b.cv.style.transform = `translate3d(${(b.cx - b.cw / 2).toFixed(1)}px,${(b.cy - b.d / 2 - b.pad).toFixed(1)}px,0) scale(${b.down ? 0.94 : 1})`; }
   function moveStick() {
     const st = S.stick, L = S.L, bw = L.stick.r * 2 + 16, kw = L.stick.r * 0.92 + 12;
+    const tr = st.live ? 'none' : 'transform 120ms ease-out';   // the knob eases home, but follows the finger without lag
+    if (knobCv.style.transition !== tr) { knobCv.style.transition = tr; baseCv.style.transition = tr; }
     baseCv.style.transform = `translate3d(${(st.ox - bw / 2).toFixed(1)}px,${(st.oy - bw / 2).toFixed(1)}px,0)`;
     knobCv.style.transform = `translate3d(${(st.ox + st.x - kw / 2).toFixed(1)}px,${(st.oy + st.y - kw / 2).toFixed(1)}px,0)`;
     const o = String((st.live ? 1 : 0.66) * (S.op ?? 1));
@@ -223,7 +225,7 @@ export function createPad(game, opts = {}) {
   }
   function releaseAll() { for (const b of B) press(b, false, -1, true); stickEnd(); paint(); }
 
-  const usable = (e) => S.shown && !opts.isModal?.() && (e.pointerType !== 'mouse' || opts.mouse);
+  const usable = (e) => S.shown && !opts.isModal?.() && (e.pointerType !== 'mouse' || opts.mouse) && !opts.claims?.(e);
   const claim = (e) => { e.stopPropagation(); if (e.cancelable) e.preventDefault(); };
   function onDown(e) {
     if (!usable(e)) return;

diff --git a/src/v2/ui/atlas_map.js b/src/v2/ui/atlas_map.js
@@ -1,3 +1,3 @@
 // GENERATED by tools/v2/ui_atlas.py - do not edit. Sprite rectangles of assets/v2/ui/gem/atlas.webp: name -> [x, y, w, h].
 export const ATLAS_W = 1024, ATLAS_H = 548;
-export const SPRITES = {"attack":[198,0,138,140],"bell":[338,0,104,140],"bell_long":[444,0,139,140],"call":[762,0,140,137],"candle":[416,336,61,108],"candle_dead":[479,336,60,108],"cell":[612,336,40,104],"cell_empty":[654,336,39,104],"flame":[695,336,58,94],"guard":[585,0,78,140],"hook":[0,198,140,136],"interact":[284,198,105,124],"jump":[665,0,95,140],"leave":[755,336,67,92],"lock":[0,0,196,196],"moon":[824,336,91,92],"next":[391,198,120,124],"night_now":[513,198,54,124],"night_past":[569,198,68,124],"orn_boss":[0,336,414,116],"orn_corner":[639,198,96,124],"orn_div":[92,454,325,60],"pause":[541,336,69,108],"resume":[917,336,81,92],"roll":[142,198,140,127],"settings":[0,454,90,92]};
+export const SPRITES = {"attack":[198,0,138,140],"bell":[338,0,104,140],"bell_long":[444,0,139,140],"call":[762,0,140,137],"candle":[416,336,61,108],"candle_dead":[479,336,60,108],"cell":[612,336,40,104],"cell_empty":[654,336,39,104],"flame":[695,336,58,94],"guard":[585,0,78,140],"hook":[0,198,140,136],"interact":[284,198,105,124],"jump":[665,0,95,140],"leave":[755,336,67,92],"lock":[0,0,196,196],"moon":[824,336,91,92],"next":[391,198,120,124],"night_now":[513,198,54,124],"night_past":[569,198,68,124],"orn_boss":[0,336,414,116],"orn_corner":[639,198,96,124],"orn_div":[175,454,325,60],"pause":[541,336,69,108],"pouch":[917,336,70,92],"resume":[0,454,81,92],"roll":[142,198,140,127],"settings":[83,454,90,92]};

diff --git a/src/v2/env/props2.js b/src/v2/env/props2.js
@@ -12,7 +12,7 @@ const BRONZE = [1.55, 1.08, 0.5], SOOT = [0.42, 0.38, 0.38], IRON = [0.5, 0.5, 0
 function flames(G, x, y, z, w, h, n = 5, seed = 1) {
   const C = [[1.0, 0.86, 0.46], [1.0, 0.52, 0.15], [0.74, 0.17, 0.06]], E = [1.6, 1.35, 1.0];
   for (let i = 0; i < n; i++) {
-    const t = n > 1 ? i / (n - 1) - 0.5 : 0, cx = x + t * w + (hash(i, seed) - 0.5) * 6, fh = h * (0.45 + 0.55 * hash(i + seed, x)), fw = Math.max(5, w / n * 0.62), sw = (hash(x + i, seed) - 0.5) * fw * 1.6, pz = z - (i % 3) * 2.5;
+    const t = n > 1 ? i / (n - 1) - 0.5 : 0, cx = x + t * w + (hash(i, seed) - 0.5) * (w / n) * 0.9, fh = h * (0.28 + 0.72 * hash(i + seed, x) ** 1.4) * (1 - 0.5 * Math.abs(t)), fw = Math.max(5, w / n * (0.45 + 0.5 * hash(seed, i + x))), sw = (hash(x + i, seed) - 0.5) * fw * 1.6, pz = z - (i % 3) * 2.5;
     const cxAt = (k) => cx + sw * k * k + Math.sin(k * 3 + i) * fw * 0.18, wAt = (k) => fw * (1 - k * 0.72), yAt = (k) => y + fh * k;
     for (const [ax, az] of [[1, 0], [0, 1]]) for (let s = 0; s < 3; s++) {
       const k0 = s / 3, k1 = (s + 1) / 3, o = { emis: E[s], tint: C[s], fog: 0.45, keep: true }, n3 = [az, 0, -ax];

diff --git a/src/v2/world/gen.js b/src/v2/world/gen.js
@@ -38,7 +38,7 @@ export function house(o) {
   };
   const parts = [{ t: 'wall', x, z, w, d, h, y, mat: st === 'timber' || st === 'plaster' ? 'plaster' : 'facade', kit, chunk: o.chunk }];
   if (o.roof !== false && !o.burnt) {
-    const rk = { mat: o.roofMat, gable: st === 'stone' ? 'ashlar' : st === 'rubble' ? 'rubble' : undefined, chimneys: [{ u: Math.round(w * (0.18 + 0.64 * r())), t: 0.72, h: 30 + 10 * r() }], dormers: w > 400 && r() < 0.7 ? [{ u: Math.round(w * (0.3 + 0.4 * r())), lit: r() < lit ? 0.5 : 0 }] : [] };
+    const rk = { mat: o.roofMat, chimney: 'fieldstone', gable: st === 'stone' ? 'ashlar' : st === 'rubble' ? 'fieldstone' : undefined, chimneys: [{ u: Math.round(w * (0.18 + 0.64 * r())), t: 0.72, h: 30 + 10 * r() }], dormers: w > 400 && r() < 0.7 ? [{ u: Math.round(w * (0.3 + 0.4 * r())), lit: r() < lit ? 0.5 : 0 }] : [] };
     parts.push({ t: 'roof', x, z, w, d, y: y + h, h: o.roofH ?? Math.round(56 + 16 * r()), kit: { ...rk, ...(o.roofKit ?? {}) }, chunk: o.chunk });
   }
   return parts;

diff --git a/src/v2/play/motion.js b/src/v2/play/motion.js
@@ -175,7 +175,7 @@ export function driveHero(ch, h, dt, T = TUNE) {
   else if (st === 'run' || st === 'walk') { const c = C[st]; A.play(st, PO(0.14, ((h.gait + footOff(c)) % 1) * c.duration)); }
   else A.play(h.lock != null && C.idle_combat ? 'idle_combat' : 'idle', PO(0.2));
   A.update(dt);
-  // 달릴 때 윗몸을 조금 세운다: 달리기 클립은 26° 숙어 있어 위에서 비스듬히 보는 카메라에 얼굴이 묻힌다 → 14° 쯤으로
+  // 달릴 때 윗몸을 조금 세운다: 달리기 클립은 26° 숙어 있어 위에서 비스듬히 보는 카메라에 얼굴이 묻힌다 → 골반–머리 선으로 19° 쯤
   S.lean = (S.lean ?? 0) + ((st === 'run' && !h.dead ? 1 : 0) - (S.lean ?? 0)) * Math.min(1, dt * 9);
   if (S.lean > 0.02) {
     pitchBone(ch.rig, 'spine', -(T.runLeanFix ?? 12) * 0.55 * S.lean); pitchBone(ch.rig, 'spine2', -(T.runLeanFix ?? 12) * 0.45 * S.lean);

diff --git a/src/v2/chooser.js b/src/v2/chooser.js
@@ -60,7 +60,7 @@ export default class V2Chooser extends Scene {
     // 높이 나누기: 넉넉하면 머리말(제목 + 꾸밈 + 안내 글)을 다 쓰고, 좁으면 제목 한 줄만 두고 줄 높이를 줄인다
     const availH = H - st - sb, tight = availH < 520, hintH = input.mode === 'touch' ? 0 : 30;
     const w = Math.min(640, W - sl - sr - 48), x = sl + (W - sl - sr - w) / 2;
-    const headH = tight ? 36 : 96, backH = tight ? 40 : 52, gap = tight ? 5 : 10;
+    const headH = tight ? 36 : 96, backH = tight ? 44 : 52, gap = tight ? 5 : 10;
     const cardH = clamp(Math.floor((availH - hintH - headH - backH - gap * CARDS - 8) / CARDS), 46, 88);
     const total = headH + cardH * CARDS + backH + gap * CARDS;
     let y = st + Math.max(6, (availH - hintH - total) / 2);

diff --git a/src/v2/game/hud.js b/src/v2/game/hud.js
@@ -74,7 +74,7 @@ export function createBuiltinHud() {
       }
       if (s.time < 7 && !s.done && !h.dead) {
         ctx.globalAlpha = clamp(Math.min(s.time / 0.5, (7 - s.time) / 1), 0, 1);
-        text(ctx, '스틱 위 = 화면 안쪽 · 공격은 세 번 이어집니다 · 깊이가 맞아야 맞습니다', Wv / 2, Hv - 30 - sf.b, O_TIP);
+        text(ctx, s.hero.guard !== undefined ? '공격은 세 번 이어집니다 · 대시: 밀면서 누르면 구르기, 서서 누르고 있으면 막기' : '스틱 위 = 화면 안쪽 · 공격은 세 번 이어집니다 · 깊이가 맞아야 맞습니다', Wv / 2, Hv - 30 - sf.b, O_TIP);
         ctx.globalAlpha = 1;
       }
       if (s.done) {
